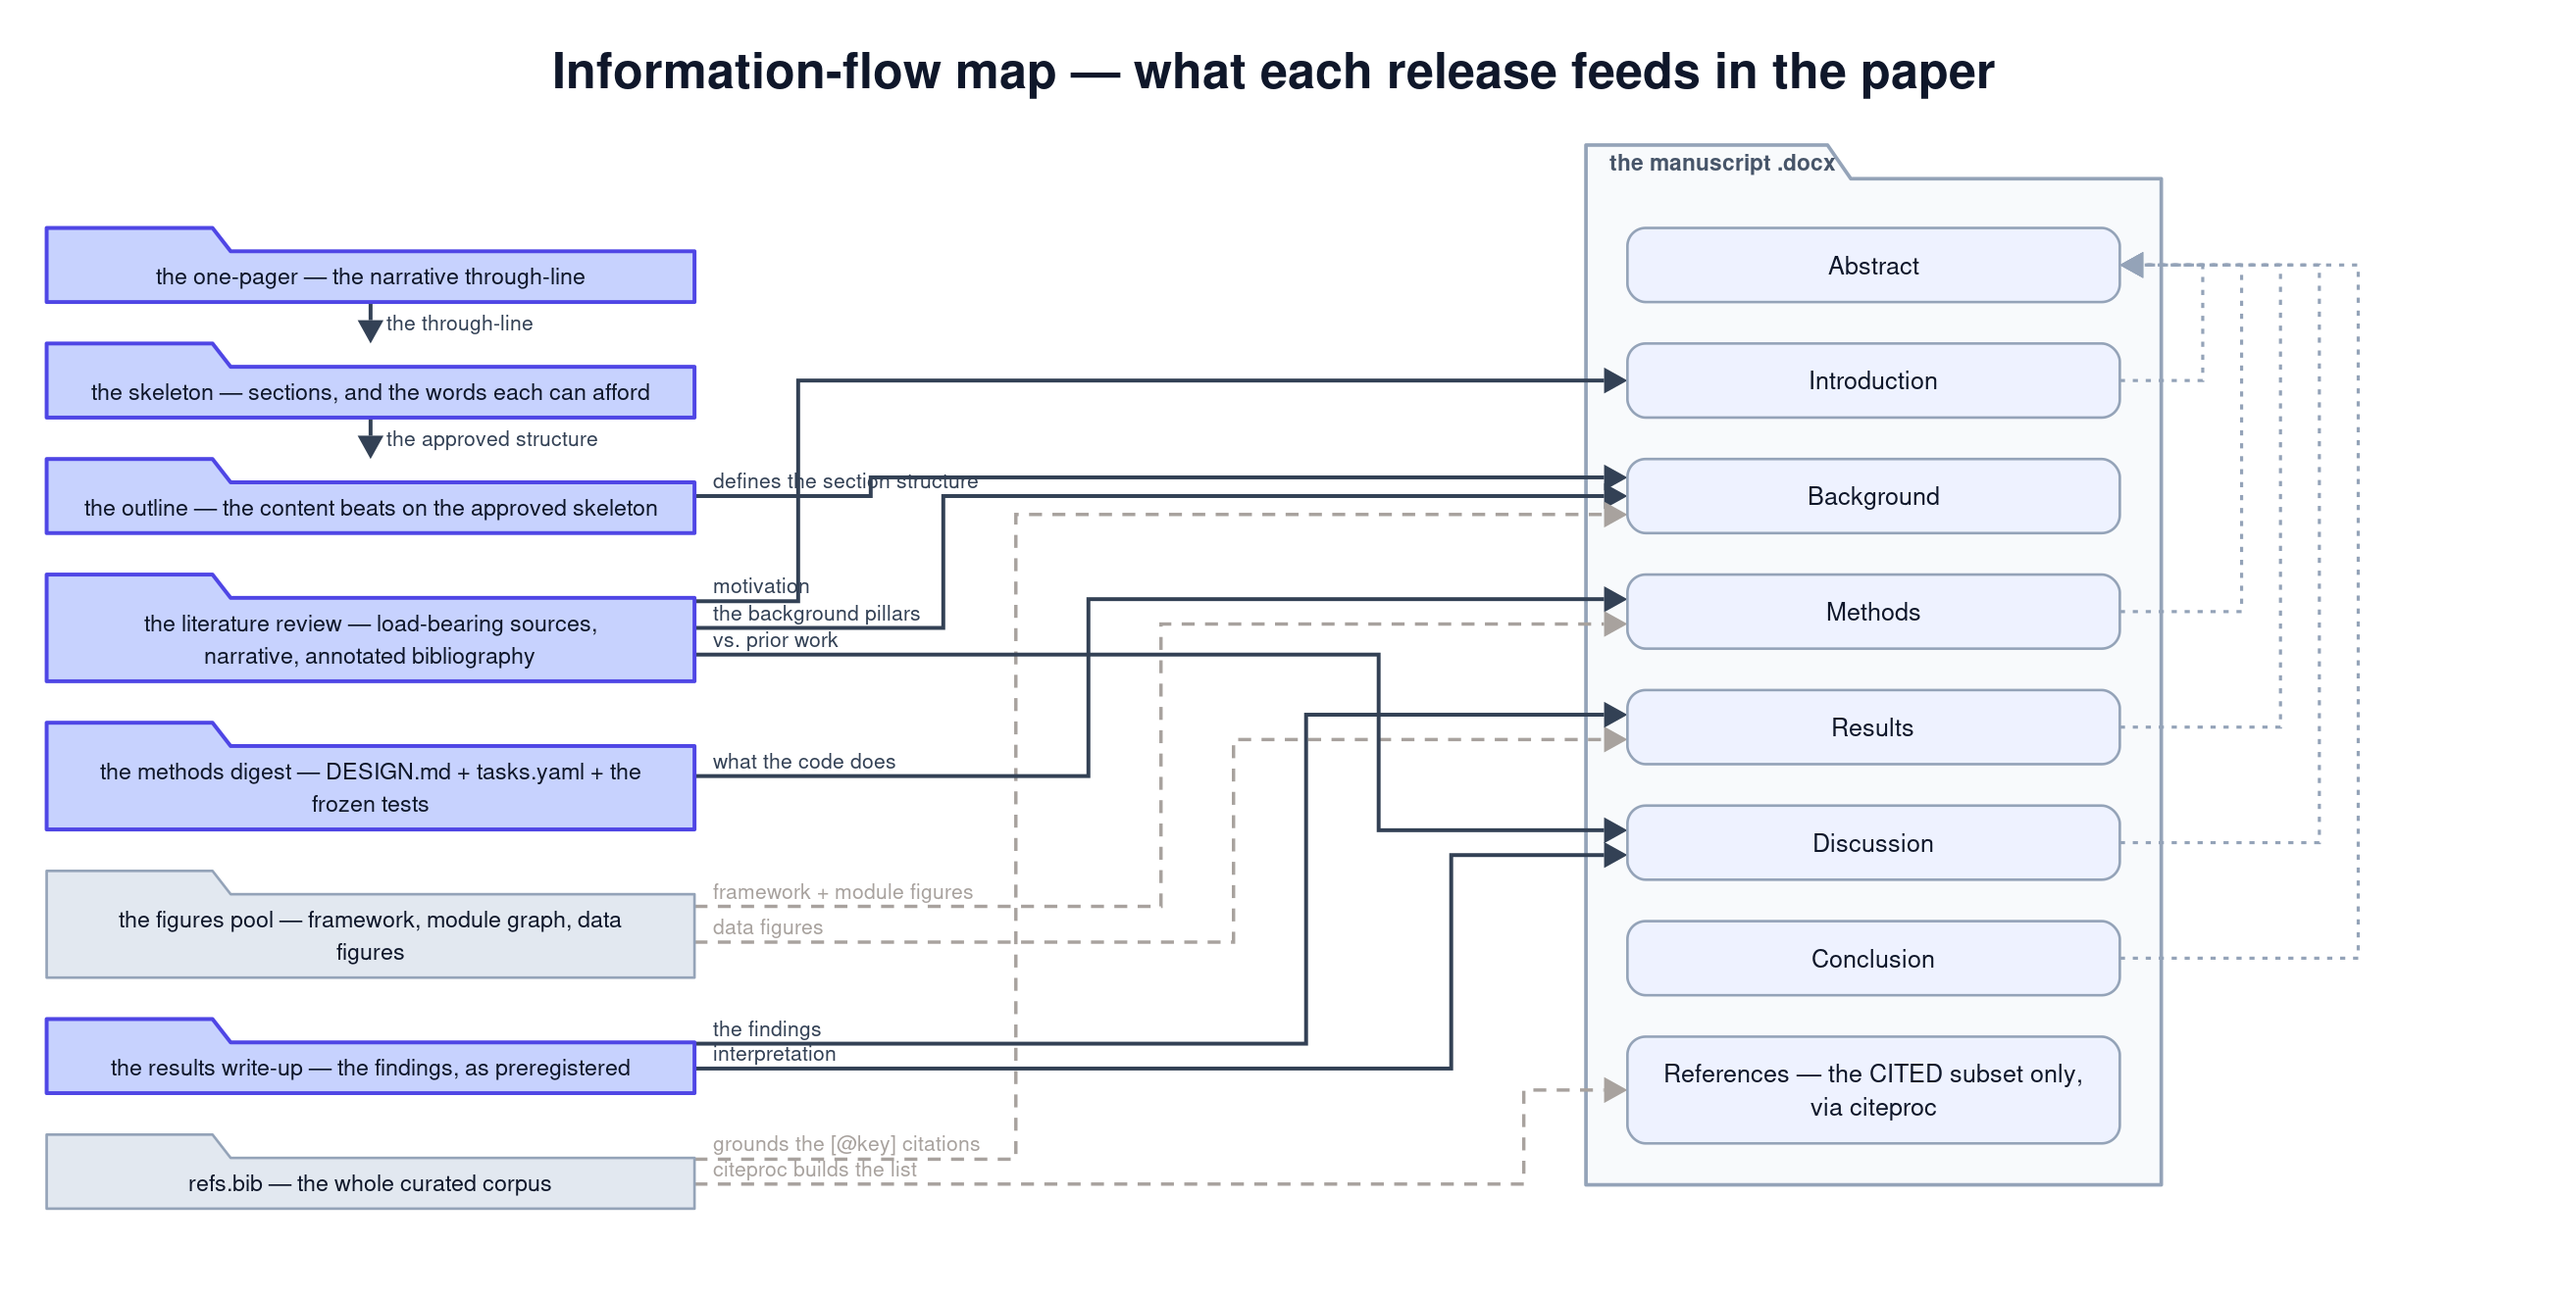
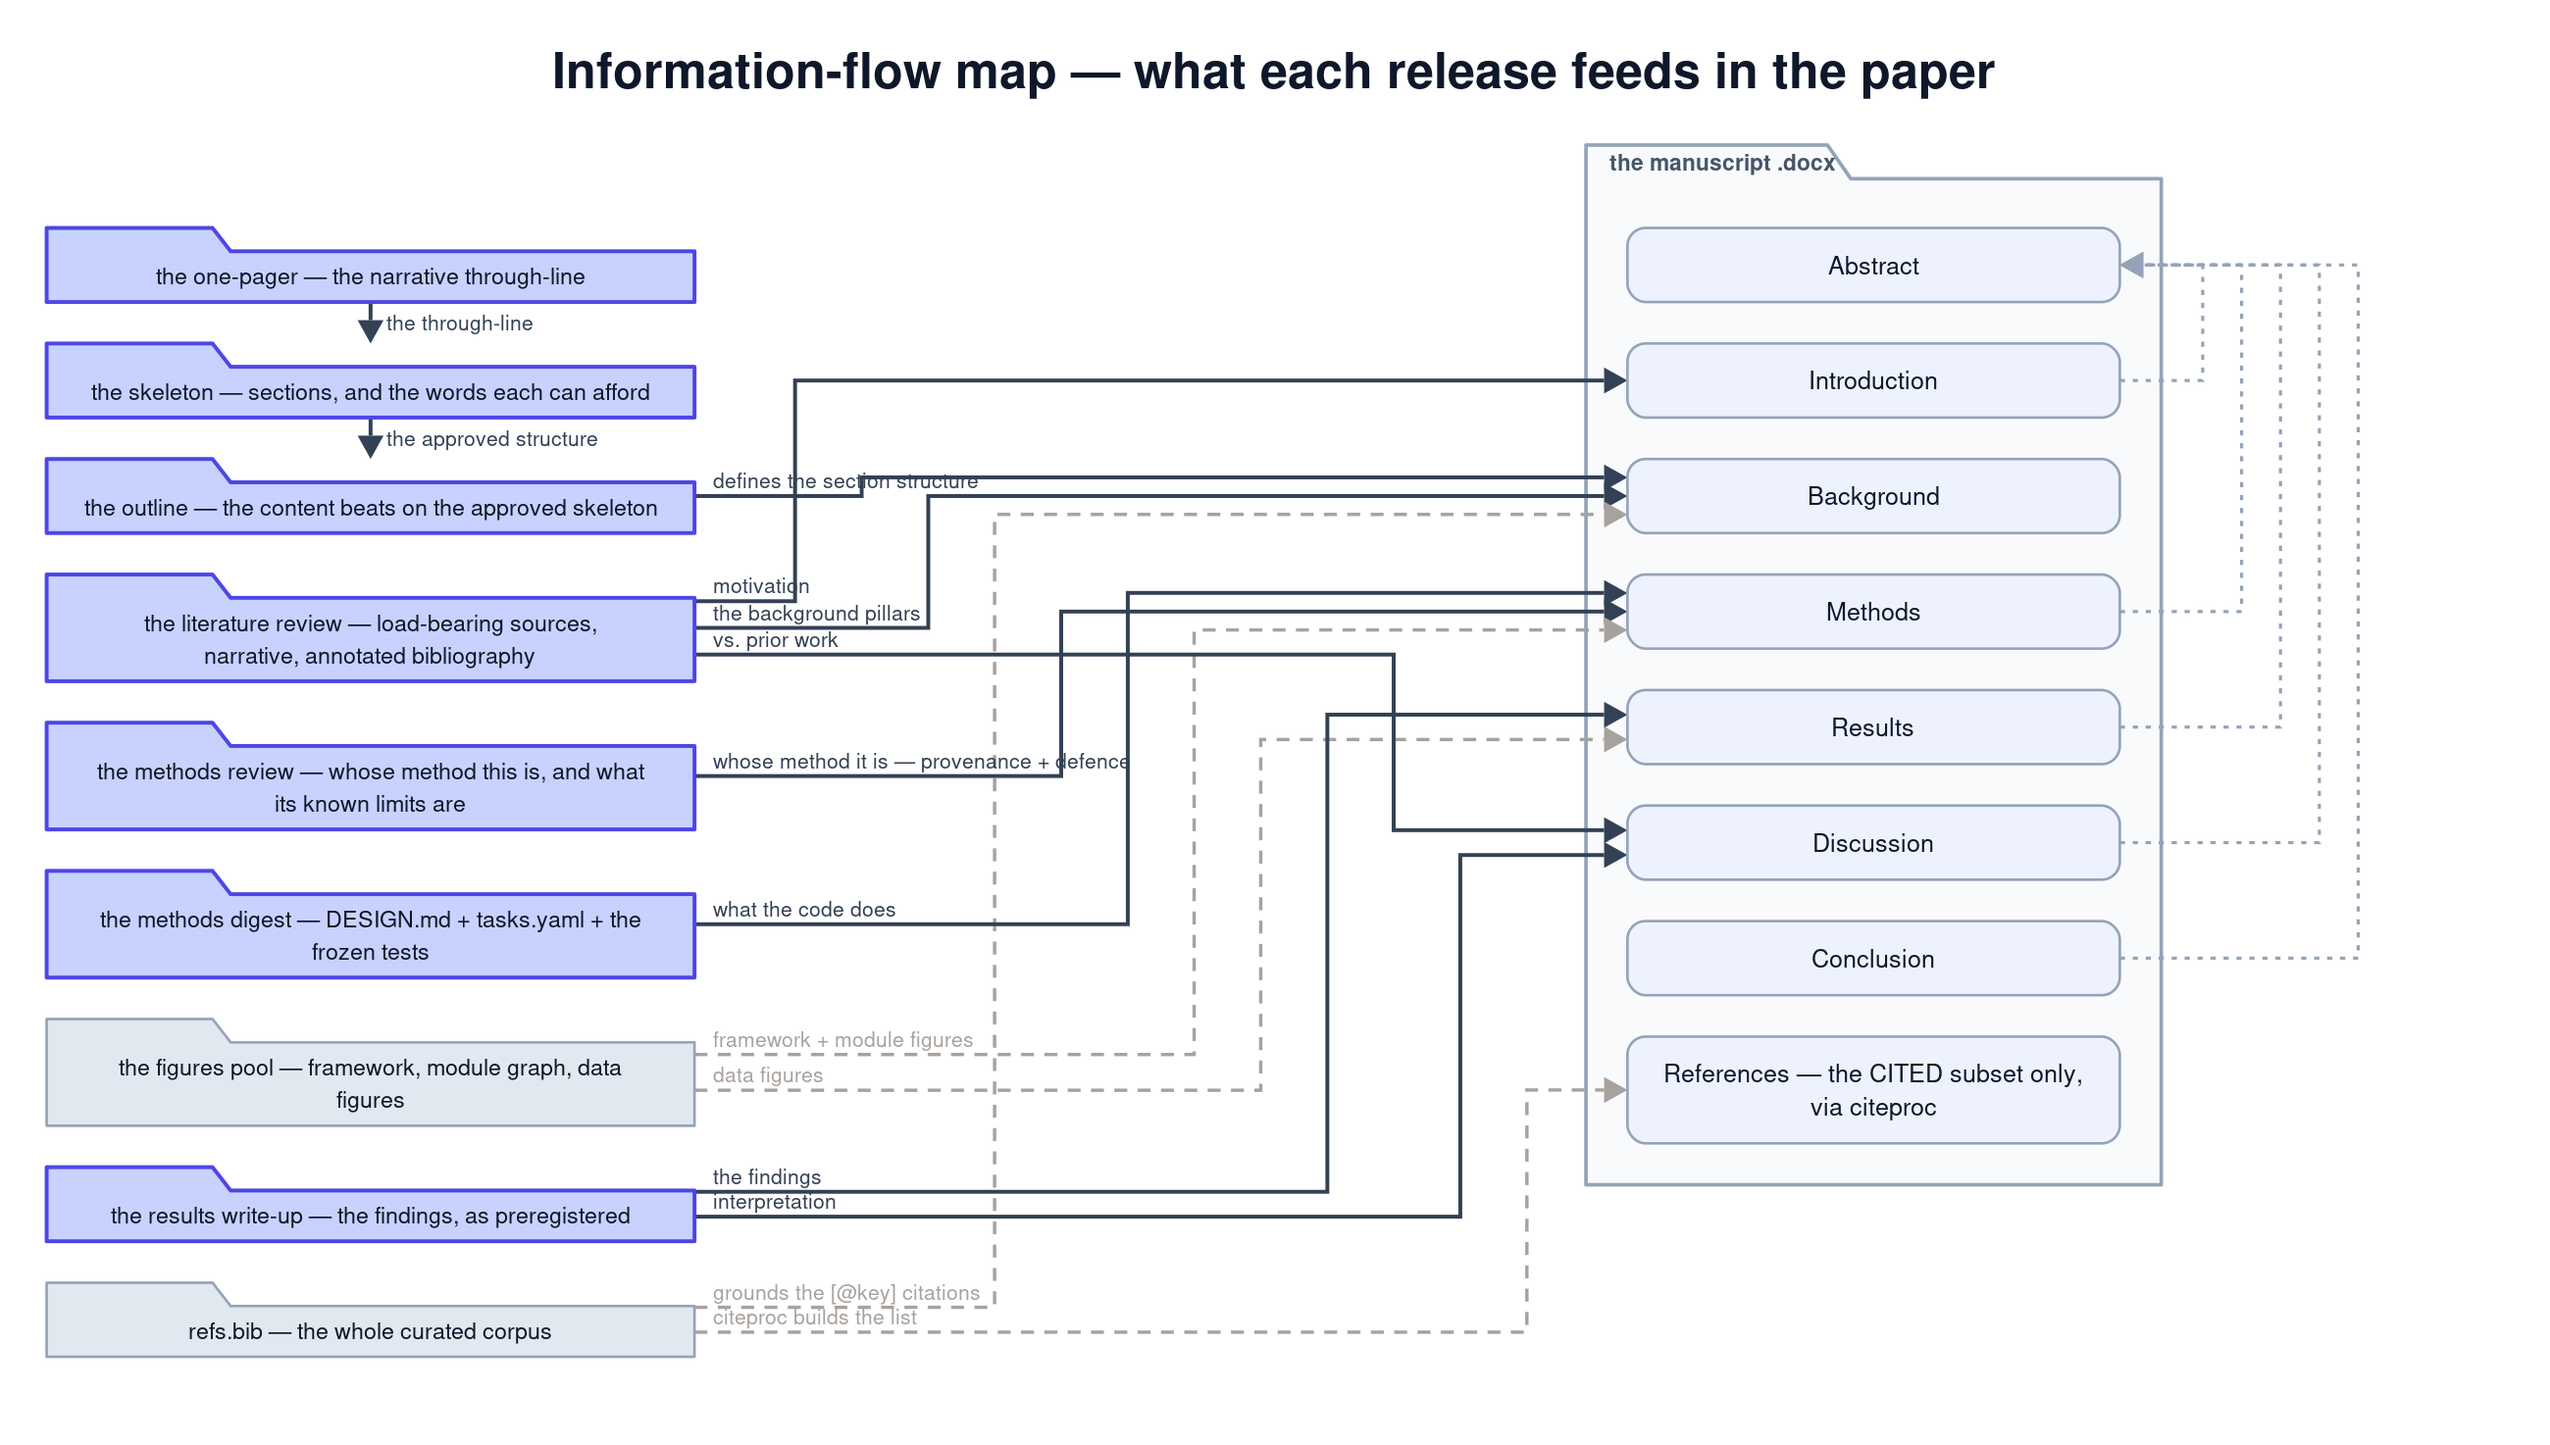
The paper declares the methods review it reads
I pushed without reconciling the figures, which is the rule, and the ladder had
just changed underneath them.

raconteur reads the methods review — `load_methods_review` into the Methods
section, with a citation floor when one exists — and `paper.inputs` did not say
so. That is the exact shape the drift check exists to catch: it pins the
information-flow map to what the paper stage DECLARES, so an undeclared read is
invisible to it. The old hand-drawn map showed the preregistration feeding
Methods when no such flow existed; this was the inverse, a real flow the map did
not draw.

So `paper.inputs` gains `methodsreview`, the map gains the source and the edge
("whose method it is — provenance + defence", beside the writeup's "what the code
does"), and the drift test now enforces the pair. `stage_applies` skips it for
projects that never asked for a methods review, so nothing waits on a stage it
does not have.

Migration also REVERTS this morning's `design.inputs` edge on saved manifests. It
was tried and undone in code when it turned out to stop the design session opening
at all — and the session is where the methods scope comes from — but 17 manifests
had already persisted it.

Claude-Session: https://claude.ai/code/session_01JbRnTtxU7yKwvKTA8wdMSs

Changed region(s): [[0.0, 0.031, 0.8412, 0.96], [0.6231, 0.898, 0.8412, 0.929], [0.8723, 0.1858, 0.9035, 0.2168]]

diff --git a/figures/panels/paperinflow.py b/figures/panels/paperinflow.py
@@ -2,7 +2,7 @@
 """The information-flow map: what each release feeds in the paper.
 
 Note what is ABSENT: the preregistration. raconteur.context loads the literature review, the
-methods writeup and the results digest, and nothing else — matching
+METHODS review, the methods writeup and the results digest, and nothing else — matching
 `project.DEFAULT_STAGES["paper"]["inputs"]`. The old hand-drawn map showed the prereg feeding
 Methods and Discussion; the drift check caught that on its first run. Whether the paper SHOULD
 read its own preregistration is a pipeline question, not a drawing one.
@@ -15,7 +15,7 @@ stage is allowed to read, and test_figure_drift.py checks this list against it.
 # every source, and the stage whose release it is (None = a produced component, not a mint)
 FROM_STAGE = {
  "s_one": "paper", "s_skel": "paper", "s_out": "paper",
- "s_lit": "litreview", "s_meth": "build",
+ "s_lit": "litreview", "s_mrev": "methodsreview", "s_meth": "build",
  "s_res": "experiments", "s_fig": None, "s_refs": None,
 }
 
@@ -25,6 +25,7 @@ SOURCES = {
  "s_out":  ("the outline — the content beats on the approved skeleton", "mint"),
  "s_lit":  ("the literature review — load-bearing sources, narrative, "
             "annotated bibliography", "mint"),
+ "s_mrev": ("the methods review — whose method this is, and what its known limits are", "mint"),
  "s_meth": ("the methods digest — DESIGN.md + tasks.yaml + the frozen tests", "mint"),
  "s_fig":  ("the figures pool — framework, module graph, data figures", "art"),
  "s_res":  ("the results write-up — the findings, as preregistered", "mint"),
@@ -45,6 +46,7 @@ EDGES = [
  ("s_lit",  "p_bg",   "prose", "the background pillars"),
  ("s_lit",  "p_dis",  "prose", "vs. prior work"),
  ("s_meth", "p_meth", "prose", "what the code does"),
+ ("s_mrev", "p_meth", "prose", "whose method it is — provenance + defence"),
  ("s_res",  "p_res",  "prose", "the findings"),
  ("s_res",  "p_dis",  "prose", "interpretation"),
  ("s_fig",  "p_meth", "asset", "framework + module figures"),

diff --git a/packages/haarpi/haarpi/project.py b/packages/haarpi/haarpi/project.py
@@ -81,7 +81,10 @@ DEFAULT_STAGES: dict[str, dict] = {
     },
     "paper": {
         "dir": "paper", "tool": "raconteur",
-        "inputs": ["litreview", "build", "experiments"],
+        # `methodsreview` because raconteur's Methods section is written from it and carries
+        # a citation floor when it exists — a real read, so a real edge. Skipped by
+        # `stage_applies` for the projects that never asked for one.
+        "inputs": ["litreview", "methodsreview", "build", "experiments"],
         "infix": "", "attended": False,
     },
     # The venue-specific presentation DECK (razzle), forked per presentation FORMAT. Feeds on the
@@ -590,10 +593,17 @@ def migrate_tool_names(root: Path, *, dry_run: bool = False) -> list[str]:
     # customisation, and a migration that overwrote a deliberate override would be worse than
     # one that did nothing.
     d = m.stages.get("design")
-    if d and d.get("inputs") == ["litreview"]:
-        changed.append("stages.design.inputs: +methodsreview")
+    if d and d.get("inputs") == ["litreview", "methodsreview"]:
+        # the design edge was tried and reverted: it stopped the session opening at all, and
+        # the session is where the methods scope comes from. The gate is on the MINT now.
+        changed.append("stages.design.inputs: -methodsreview")
         if not dry_run:
-            d["inputs"] = ["litreview", "methodsreview"]
+            d["inputs"] = ["litreview"]
+    pa = m.stages.get("paper")
+    if pa and pa.get("inputs") == ["litreview", "build", "experiments"]:
+        changed.append("stages.paper.inputs: +methodsreview")
+        if not dry_run:
+            pa["inputs"] = ["litreview", "methodsreview", "build", "experiments"]
 
     spec = m.stages.get("methodsreview")
     if spec and spec.get("dir") == "litReviewMethods":
